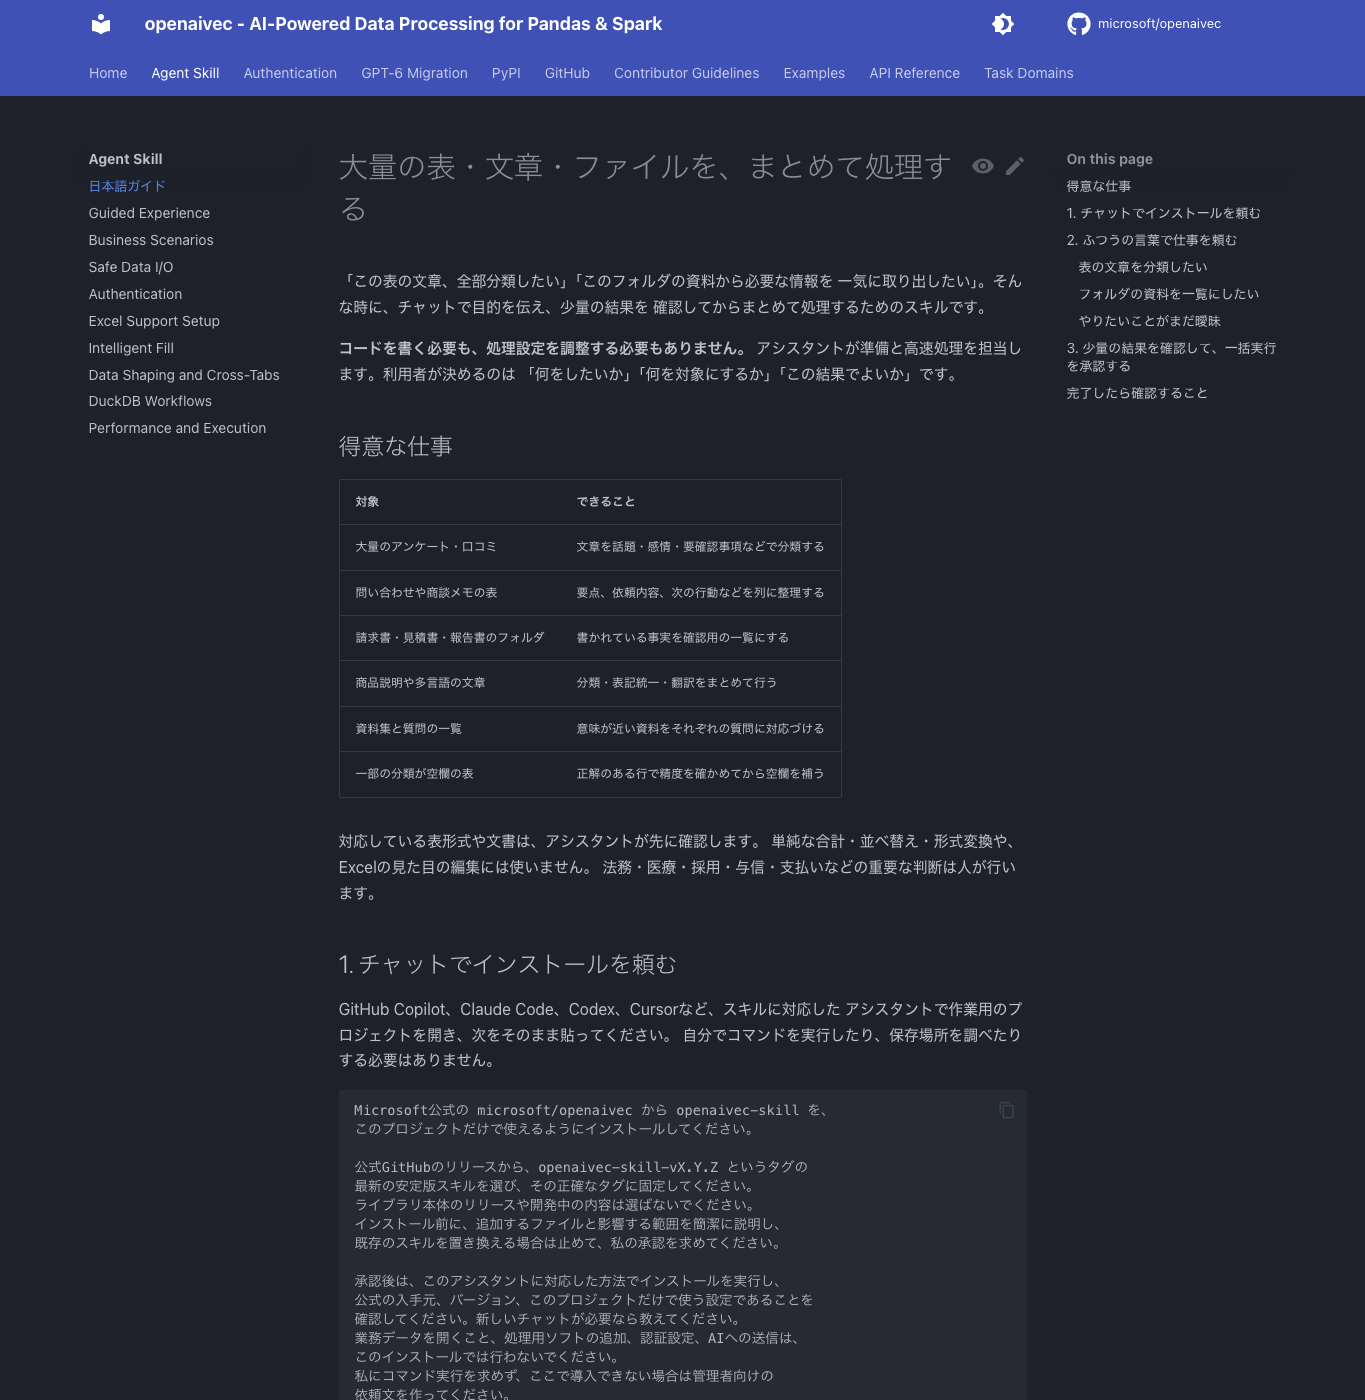
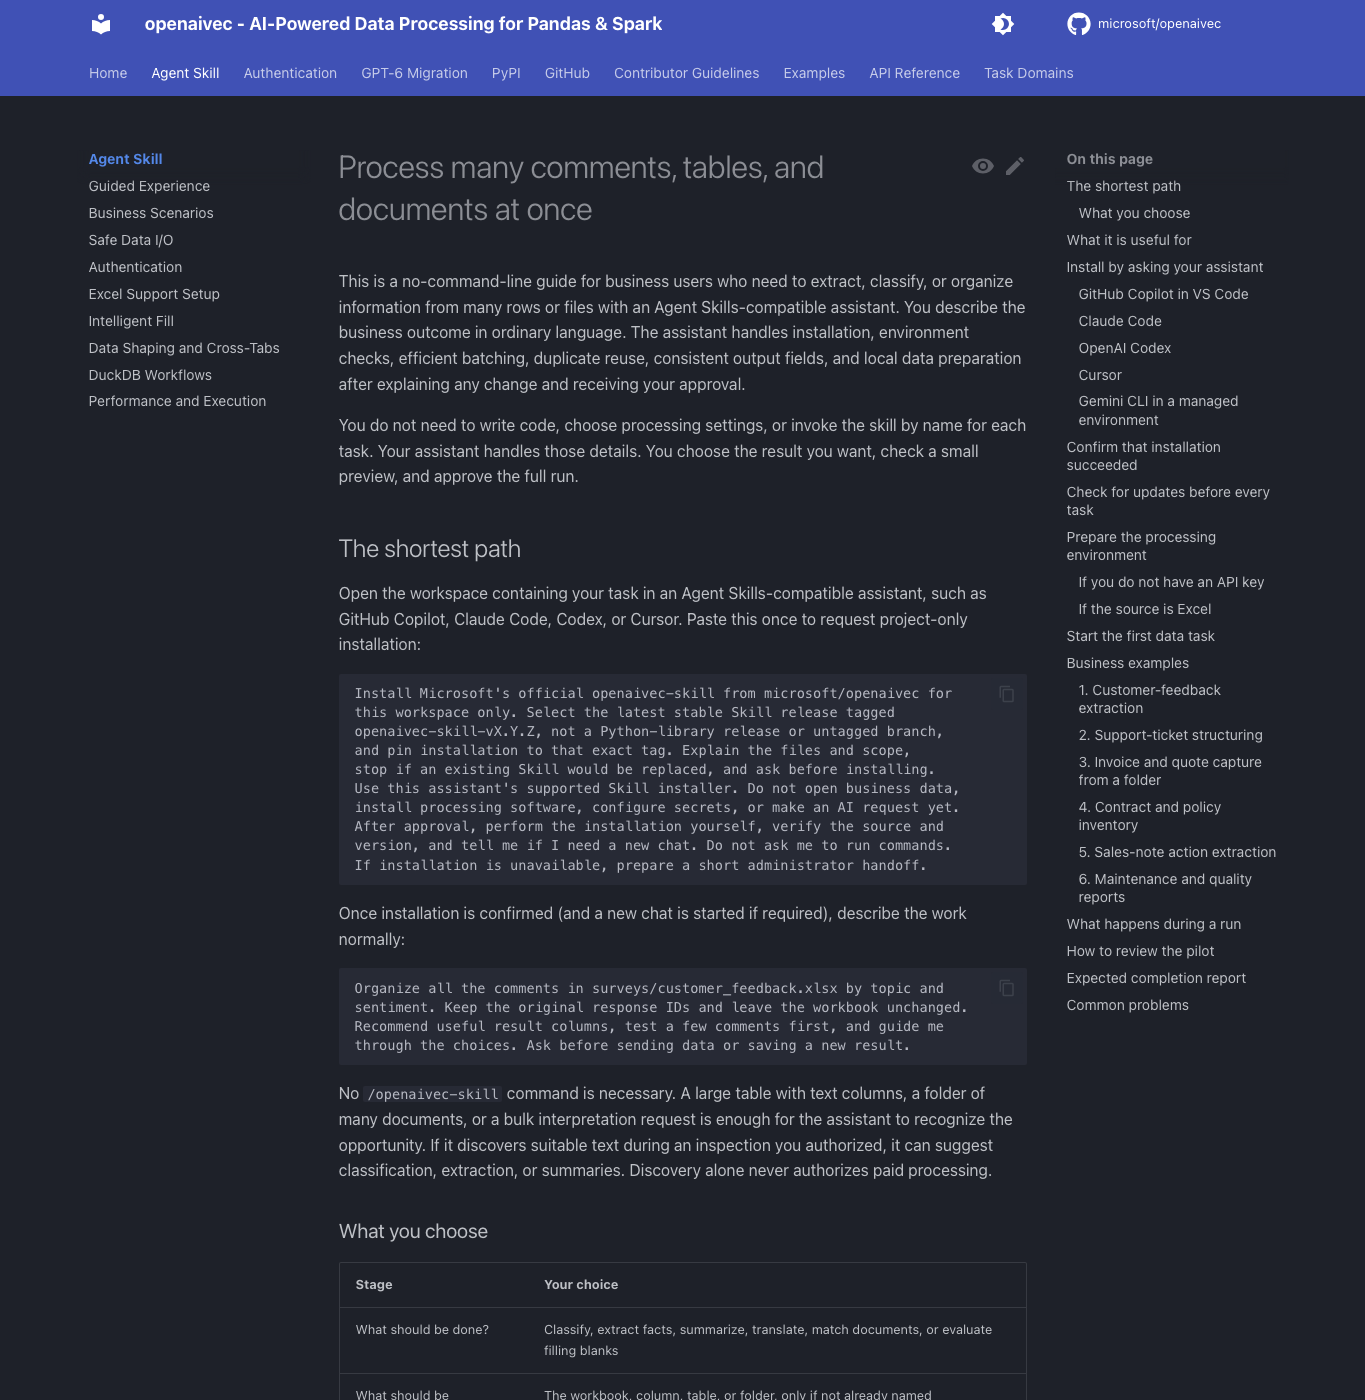
docs(skill): publish English-only business guidance
Use English for all documentation, release notes, installation prompts, and the guide screenshot. Remove the Japanese-only page and add a documentation-language regression check.

diff --git a/tests/skills/test_skill_package.py b/tests/skills/test_skill_package.py
@@ -21,7 +21,7 @@ def test_release_manifest_and_curated_notes_match_skill():
     assert "repository: https://github.com/microsoft/openaivec" in frontmatter
     notes = (SKILL / "RELEASE_NOTES.md").read_text()
     assert notes.startswith(f"# openaivec-skill {version.group(1)} ")
-    assert "インストール方法" in notes
+    assert "Business-user installation" in notes
     assert "pin installation to that exact tag" in notes
     workflow = WORKFLOW.read_text()
     assert '--notes-file "$SKILL_RELEASE_NOTES"' in workflow
@@ -30,7 +30,7 @@ def test_release_manifest_and_curated_notes_match_skill():
     assert manifest is not None
     files = [line.strip() for line in manifest.group(1).splitlines()]
     assert len(files) == len(set(files))
-    assert {"GETTING_STARTED.ja.md", "RELEASE_NOTES.md", "scripts/bulk_runner.py"} <= set(files)
+    assert {"GETTING_STARTED.md", "RELEASE_NOTES.md", "scripts/bulk_runner.py"} <= set(files)
     assert all((SKILL / file).is_file() for file in files)
 
 
@@ -42,10 +42,11 @@ def test_portable_documentation_links_resolve(path):
         assert (path.parent / target.split("#", 1)[0]).is_file(), f"{path.name}: {target}"
 
 
-@pytest.mark.parametrize("name", ["GETTING_STARTED.md", "GETTING_STARTED.ja.md", "RELEASE_NOTES.md"])
+@pytest.mark.parametrize("name", ["GETTING_STARTED.md", "RELEASE_NOTES.md"])
 def test_business_guides_do_not_require_code_or_terminal_steps(name):
     text = (SKILL / name).read_text()
     assert not re.search(r"```(?:bash|sh|python|sql)\b", text)
+    assert not re.search(r"[\u3040-\u30ff\u4e00-\u9fff]", text)
     assert "openaivec-skill-vX.Y.Z" in text
     assert "```text" in text
 

diff --git a/skills/openaivec-skill/RELEASE_NOTES.md b/skills/openaivec-skill/RELEASE_NOTES.md
@@ -1,65 +1,35 @@
-# openaivec-skill 1.3.0 — Business bulk-processing assistant
+# openaivec-skill 1.3.0 - Business bulk-processing assistant
 
-## 大量のデータを、ふつうの言葉と選択肢で処理
+## Process large tables and document folders through guided choices
 
-ビジネスユーザー向けに、入口を「目的 → 対象 → 少量の結果確認 →
-一括実行」に整理しました。SQLやコード、並列数などの調整は
-アシスタントが担当し、利用者には業務上の選択と承認だけを案内します。
+Business users describe the outcome, select the source, review a small
+preview, and approve the full run. The assistant handles code and processing
+settings instead of asking users to write SQL or tune concurrency.
 
-- **明示的な呼び出しは不要**：大量の文章入りテーブルや文書群を扱う依頼、
-  または許可したデータ確認で見つかった適切な処理機会から活用します。
-- **表のテキスト分類が得意**：アンケート、口コミ、問い合わせ、商談メモ、
-  商品説明などの分類・抽出・要約・翻訳をまとめて実行します。
-- **効率的な一括処理**：重複した入力はまとめて処理し、元の行と識別子を
-  保持して復元します。承認済みの試行結果も再利用し、長い処理は進捗を報告します。
-- **安全な確認手順**：データ送信、費用のある試行と全件処理、新しい保存先を
-  確認します。元ファイルの変更、追加ソフトや中間結果の保存は無断で行いません。
-- **日本語ガイドを追加**：コードやコマンドを実行しない導入・利用方法を用意しました。
+- **No explicit invocation required:** bulk text/document requests and suitable
+  opportunities discovered during authorized inspection activate the guidance.
+- **Text classification at scale:** organize surveys, reviews, support tickets,
+  sales notes, and product descriptions by topic, sentiment, or other agreed
+  categories. Extraction, summaries, translation, and semantic matching are
+  also supported.
+- **Efficient bulk execution:** reuse duplicate inputs and accepted preview
+  results, retain every source row and identifier, and report checkpoints
+  during long runs.
+- **Business-language interaction:** meaningful choices and short previews,
+  with implementation details kept in the background.
+- **Explicit safety gates:** approve data transmission, billable previews and
+  full runs, and exact new output destinations. No silent source changes,
+  software installation, or persistent checkpoints.
 
-速度や料金はデータとサービスに依存します。一定の高速化率を保証せず、
-数値だけの集計・単純な変換・Excelの装飾を不要にAI処理へ切り替えません。
+Actual throughput and charges depend on the input and selected service.
+This release does not promise a fixed speedup or route numeric-only
+analytics, ordinary conversion, or workbook formatting to AI unnecessarily.
 
-## ビジネスユーザー向けのインストール方法
+## Business-user installation
 
-GitHub Copilot、Claude Code、Codex、Cursorなどのスキル対応アシスタントで、
-作業するプロジェクトを開き、次をチャットに貼ってください。
-利用者がコマンドを実行する必要はありません。
-
-```text
-Microsoft公式の microsoft/openaivec から openaivec-skill を、
-このプロジェクトだけで使えるようにインストールしてください。
-公式リリースのうち openaivec-skill-vX.Y.Z というタグの最新安定版を選び、
-その正確なタグに固定してください。ライブラリ本体のリリースは選ばないでください。
-追加するファイルと影響する範囲を説明し、既存のスキルを置き換える場合は
-止めて、インストール前に私の承認を求めてください。
-承認後は、このアシスタントに対応した方法でインストールを実行し、
-公式の入手元、バージョン、このプロジェクトだけの設定であることを確認してください。
-新しいチャットが必要なら教えてください。
-業務データを開くこと、処理用ソフトの追加、認証設定、AIへの送信はまだ行わず、
-私にコマンド実行を求めないでください。
-ここで導入できない場合は、管理者向けの依頼文を作ってください。
-```
-
-説明を確認して承認し、必要なら新しいチャットを開きます。
-導入後は、スキル名を毎回指定せずに、例えば次のように依頼できます。
-
-```text
-このExcelのコメントを、全部まとめて話題と感情で分類してください。
-元の回答番号と行は残し、元ファイルは変更しないでください。
-まず数件の結果を見せて、選択肢で案内してください。
-データの送信と、新しい結果の保存は承認を取ってください。
-```
-
-会社のAI接続や追加ソフトが未準備の場合は、アシスタントが影響を説明し、
-承認された準備だけを進めます。キーやパスワードをチャットに貼らないでください。
-対応する導入機能がない環境では、勝手な方法でインストールせず管理者に引き継ぎます。
-
-[日本語の利用ガイド](https://microsoft.github.io/openaivec/agent-skill/getting-started-ja/) ·
-[English getting-started guide](https://microsoft.github.io/openaivec/agent-skill/)
-
-## English: install by asking your assistant
-
-Open the intended workspace in an Agent Skills-compatible assistant and paste:
+Open the intended project in an Agent Skills-compatible assistant such as
+GitHub Copilot, Claude Code, Codex, or Cursor. Paste the following into chat.
+**You do not need to run terminal commands.**
 
 ```text
 Install Microsoft's official openaivec-skill from microsoft/openaivec for
@@ -75,9 +45,26 @@ or make an AI request yet. Do not ask me to run commands; prepare an
 administrator handoff if direct installation is unavailable.
 ```
 
-After installation, ask normally: "Classify all the comments in this workbook
-by topic and sentiment; preserve the IDs, preview a few rows, and ask before
-the full run or a new output." You do not need to invoke the skill explicitly.
+Review the explanation and approve installation. Start a new chat if the
+assistant asks you to. If an approved AI connection or processing software is
+missing, the assistant explains the impact and asks before preparing it.
+Never paste API keys or passwords into chat.
+
+After installation, describe the task normally:
+
+```text
+Classify all the comments in this workbook by topic and sentiment.
+Preserve the original response IDs and every row; leave the workbook
+unchanged. Recommend useful result columns and show a small preview.
+Guide me through the choices, and ask before sending data, running the
+full set, or saving a new result.
+```
+
+You do not need to name the skill each time. Discovering a suitable large
+text table or document folder does not authorize paid processing by itself.
+
+See the [business-user getting-started guide](https://microsoft.github.io/openaivec/agent-skill/)
+for installation variants, readiness checks, and practical examples.
 
 ## Assistant and maintainer details
 
@@ -89,6 +76,6 @@ process; cross-process checkpoints require separate authorization.
 Remote retries can still incur charges; the helper does not claim
 exactly-once delivery to the provider.
 
-The portable archives include the English/Japanese guides, references,
-helper scripts, evaluation cases, release notes, and MIT license.
+The portable archives include the English guide, references, helper scripts,
+evaluation cases, release notes, and MIT license.
 This is an **Agent Skill release**, not a new Python-library release.

diff --git a/skills/openaivec-skill/references/guided-experience.md b/skills/openaivec-skill/references/guided-experience.md
@@ -19,9 +19,9 @@ both repeated scope and text/document interpretation:
 | Known and missing categories in otherwise complete rows | Evaluate contextual fill before filling blanks |
 
 Recognize colloquial requests such as "do all of these at once", "make this
-usable", "sort out the comments", "大量のファイルを一気に整理したい",
-"この表の文章を全部分類して", or "あー、この資料まとめて処理したい".
-Do not require a library, AI, SQL, or skill name.
+usable", "sort out the comments", "classify every description", or "process
+this whole document folder", including equivalent requests in the user's
+language. Do not require a library, AI, SQL, or skill name.
 
 When a user merely asks to inspect a large table, respect that read-only
 request. If the authorized inspection discovers suitable text, briefly offer

diff --git a/README.md b/README.md
@@ -481,8 +481,6 @@ Start with the
 [getting-started guide](skills/openaivec-skill/GETTING_STARTED.md) for
 installation prompts tailored to each harness, readiness prompts, and business
 examples focused on extracting information from large datasets. The
-[Japanese business-user guide](skills/openaivec-skill/GETTING_STARTED.ja.md)
-offers a short no-code installation and first-task path. The
 [skill package README](skills/openaivec-skill/README.md) also covers
 multi-harness installation, local validation, and automated releases. See the
 [business scenario examples](skills/openaivec-skill/references/business-scenarios.md),

diff --git a/skills/openaivec-skill/GETTING_STARTED.md b/skills/openaivec-skill/GETTING_STARTED.md
@@ -11,8 +11,6 @@ You do not need to write code, choose processing settings, or invoke the
 skill by name for each task. Your assistant handles those details. You choose
 the result you want, check a small preview, and approve the full run.
 
-[Japanese business-user guide](https://microsoft.github.io/openaivec/agent-skill/getting-started-ja/)
-
 ## The shortest path
 
 Open the workspace containing your task in an Agent Skills-compatible

diff --git a/skills/openaivec-skill/README.md b/skills/openaivec-skill/README.md
@@ -59,7 +59,6 @@ The assistant should keep implementation details in the background and:
 ## Getting started
 
 - [Getting-started guide](GETTING_STARTED.md)
-- [Japanese business-user guide](GETTING_STARTED.ja.md)
 - [Release notes and installation prompts](RELEASE_NOTES.md)
 
 Start with the short installation and ordinary-language task prompts. The
